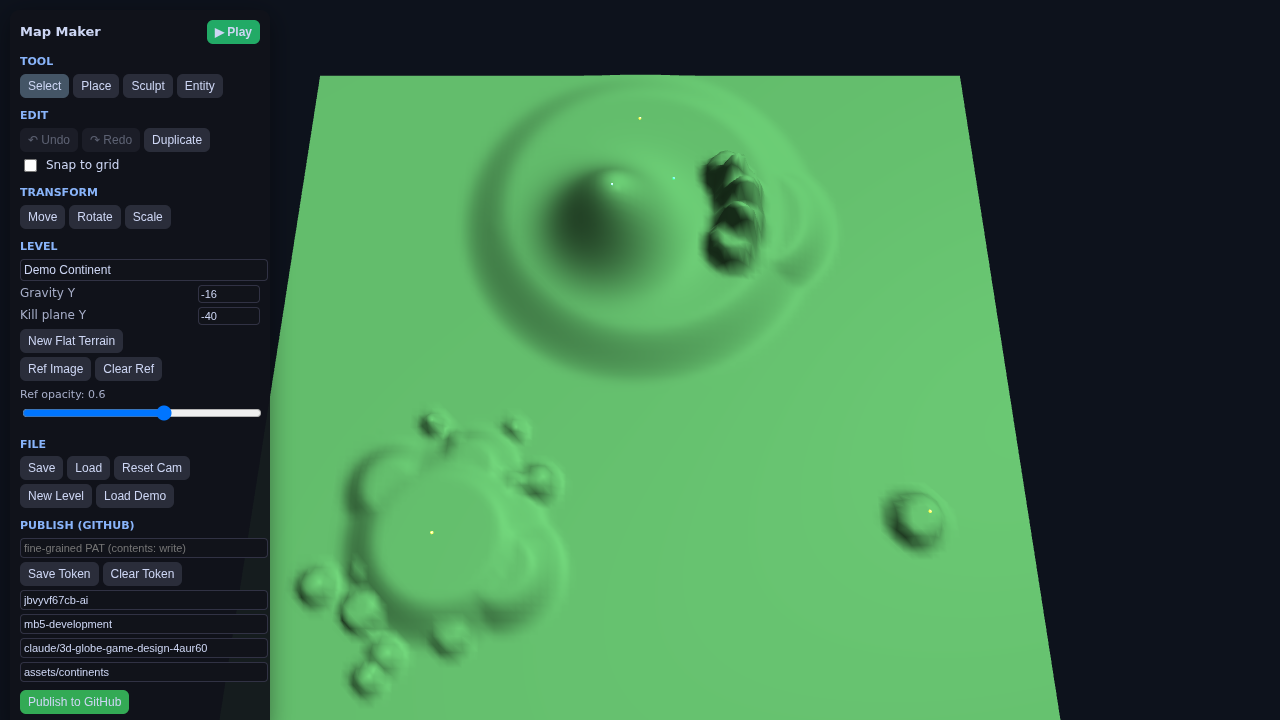
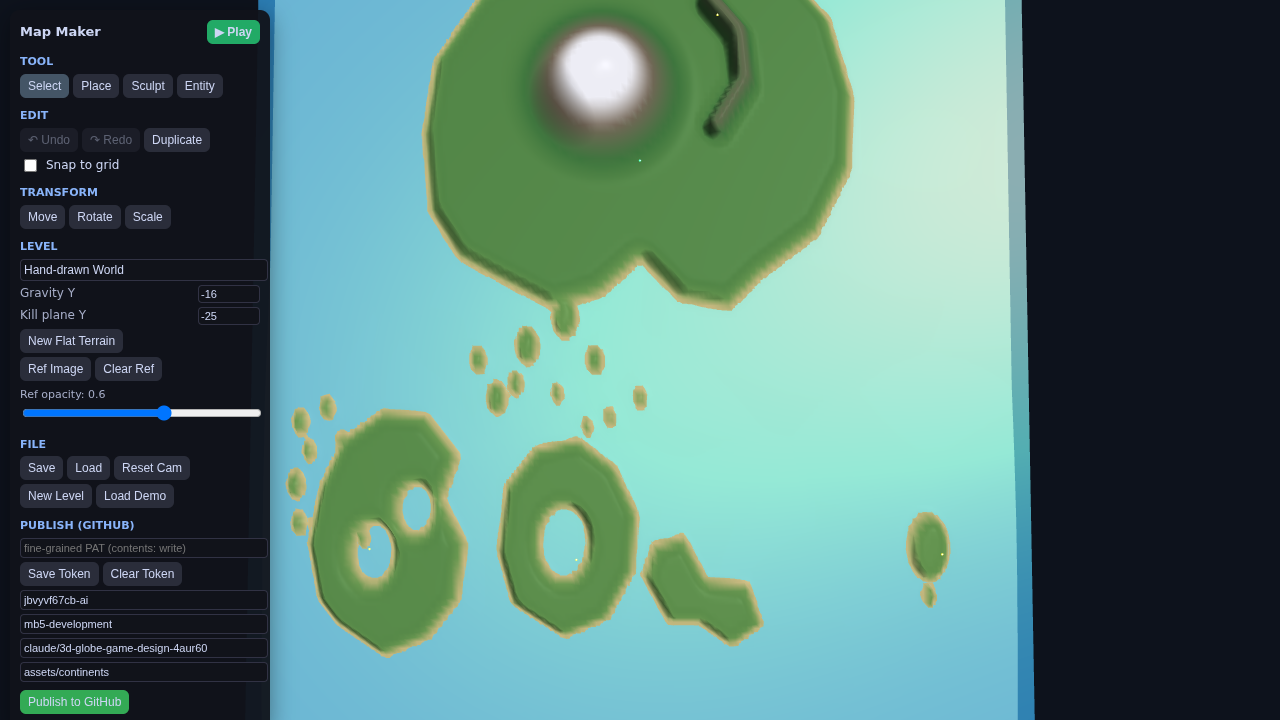
Accurate world: polygon coastlines, water, elevation coloring
- Engine: optional water plane (meta.seaLevel) — translucent ocean across
  bounds; elevation-based terrain vertex colors (sand→grass→rock→snow), updated
  live during sculpt.
- normalize: preserve meta.seaLevel on load (was dropped, so water never showed).
- tools/gen-map.mjs rewritten polygon/coastline-based: traced landmasses with
  internal lakes (holes), signed-distance beaches up to plateaus, the central
  mountain as a snow peak, the crescent ridge, archipelago islands, lone island.
  Regenerated assets/continents/world.json (150x150).
- Docs: seaLevel + elevation coloring.

Verified headless: loads as 'world', water + colored terrain render, zero
console errors.

https://claude.ai/code/session_011Si3GXqCBK1Ga8te8pX1vk

diff --git a/src/world/world.ts b/src/world/world.ts
@@ -63,6 +63,7 @@ export class World implements ContinentResult {
   private aggregates = new Map<string, PhysicsAggregate>();
   private matCache = new Map<string, StandardMaterial>();
   private terrainMat?: StandardMaterial;
+  private waterMat?: StandardMaterial;
 
   constructor(
     readonly scene: Scene,
@@ -74,8 +75,27 @@ export class World implements ContinentResult {
     scene.getPhysicsEngine()?.setGravity(new Vector3(g[0], g[1], g[2]));
 
     if (data.terrain) this.buildTerrainMesh();
+    if (data.meta.seaLevel !== undefined) this.buildWater(data.meta.seaLevel);
     for (const inst of data.prefabs) this.realizePrefab(inst);
     for (const ent of data.entities) this.realizeEntity(ent);
+  }
+
+  private buildWater(level: number) {
+    const b = this.data.meta.bounds;
+    const w = Math.max(2, b.max[0] - b.min[0]);
+    const d = Math.max(2, b.max[2] - b.min[2]);
+    const mesh = MeshBuilder.CreateGround("water", { width: w, height: d }, this.scene);
+    mesh.parent = this.root;
+    mesh.position.set((b.min[0] + b.max[0]) / 2, level, (b.min[2] + b.max[2]) / 2);
+    mesh.isPickable = false;
+    const mat = new StandardMaterial("mat:water", this.scene);
+    mat.diffuseColor = new Color3(0.1, 0.32, 0.55);
+    mat.specularColor = new Color3(0.4, 0.5, 0.6);
+    mat.emissiveColor = new Color3(0.04, 0.12, 0.2);
+    mat.alpha = 0.66;
+    mat.backFaceCulling = false;
+    mesh.material = mat;
+    this.waterMat = mat;
   }
 
   // --- materials ---
@@ -100,8 +120,8 @@ export class World implements ContinentResult {
     this.terrain.mesh.parent = this.root;
     if (!this.terrainMat) {
       this.terrainMat = new StandardMaterial("mat:terrain", this.scene);
-      this.terrainMat.diffuseColor = new Color3(0.22, 0.42, 0.24);
-      this.terrainMat.specularColor = new Color3(0.02, 0.03, 0.02);
+      this.terrainMat.diffuseColor = new Color3(1, 1, 1); // elevation vertex colors carry the look
+      this.terrainMat.specularColor = new Color3(0.03, 0.03, 0.03);
       this.terrainMat.backFaceCulling = false;
     }
     this.terrain.mesh.material = this.terrainMat;
@@ -129,6 +149,7 @@ export class World implements ContinentResult {
     const g = terrainGeometry(this.data.terrain);
     this.terrain.mesh.updateVerticesData(VertexBuffer.PositionKind, g.positions);
     this.terrain.mesh.updateVerticesData(VertexBuffer.NormalKind, g.normals);
+    this.terrain.mesh.updateVerticesData(VertexBuffer.ColorKind, g.colors);
   }
 
   /** Replace (or remove) the terrain entirely. */
@@ -354,6 +375,7 @@ export class World implements ContinentResult {
     this.root.dispose();
     this.matCache.forEach((m) => m.dispose());
     this.terrainMat?.dispose();
+    this.waterMat?.dispose();
   }
 }
 

diff --git a/src/world/terrain.ts b/src/world/terrain.ts
@@ -34,6 +34,28 @@ export interface TerrainGeometry {
   indices: number[];
   normals: number[];
   uvs: number[];
+  colors: number[];
+}
+
+/** Elevation → RGB ramp: sand → grass → rock → snow (smoothly blended). */
+export function elevationColor(h: number): [number, number, number] {
+  const stops: Array<[number, [number, number, number]]> = [
+    [0.4, [0.78, 0.72, 0.5]], // sand
+    [3, [0.42, 0.6, 0.32]], // coastal grass
+    [12, [0.24, 0.46, 0.24]], // green
+    [22, [0.45, 0.4, 0.34]], // rock
+    [30, [0.93, 0.93, 0.96]], // snow
+  ];
+  if (h <= stops[0][0]) return stops[0][1];
+  for (let i = 1; i < stops.length; i++) {
+    if (h <= stops[i][0]) {
+      const [h0, c0] = stops[i - 1];
+      const [h1, c1] = stops[i];
+      const t = (h - h0) / (h1 - h0);
+      return [c0[0] + (c1[0] - c0[0]) * t, c0[1] + (c1[1] - c0[1]) * t, c0[2] + (c1[2] - c0[2]) * t];
+    }
+  }
+  return stops[stops.length - 1][1];
 }
 
 /** Compute terrain vertex data from the height grid (shared by build + sculpt refresh). */
@@ -47,11 +69,15 @@ export function terrainGeometry(data: TerrainData): TerrainGeometry {
   const positions: number[] = [];
   const uvs: number[] = [];
   const indices: number[] = [];
+  const colors: number[] = [];
 
   for (let r = 0; r < rows; r++) {
     for (let c = 0; c < cols; c++) {
-      positions.push(origin[0] + c * cellX, heightAt(data, c, r), origin[1] + r * cellZ);
+      const h = heightAt(data, c, r);
+      positions.push(origin[0] + c * cellX, h, origin[1] + r * cellZ);
       uvs.push(c / Math.max(1, cols - 1), r / Math.max(1, rows - 1));
+      const col = elevationColor(h);
+      colors.push(col[0], col[1], col[2], 1);
     }
   }
   for (let r = 0; r < rows - 1; r++) {
@@ -67,7 +93,7 @@ export function terrainGeometry(data: TerrainData): TerrainGeometry {
 
   const normals: number[] = [];
   VertexData.ComputeNormals(positions, indices, normals);
-  return { positions, indices, normals, uvs };
+  return { positions, indices, normals, uvs, colors };
 }
 
 export function buildTerrain(scene: Scene, data: TerrainData, name = "terrain"): TerrainMesh {
@@ -84,7 +110,9 @@ export function buildTerrain(scene: Scene, data: TerrainData, name = "terrain"):
   vd.indices = g.indices;
   vd.normals = g.normals;
   vd.uvs = g.uvs;
+  vd.colors = g.colors;
   vd.applyToMesh(mesh, true); // updatable: sculpt brushes rewrite positions
+  mesh.useVertexColors = true;
   mesh.receiveShadows = true;
 
   return { mesh, origin, cols, rows, cellX, cellZ };

diff --git a/src/world/schema.ts b/src/world/schema.ts
@@ -30,6 +30,8 @@ export interface ContinentMeta {
   gravity?: Vec3;
   /** Y below which the player is considered to have fallen out of the world. */
   killPlaneY?: number;
+  /** If set, a translucent water plane renders at this Y across the bounds (sea level). */
+  seaLevel?: number;
   /** Kept if any OSM-derived assets are ever used: "Map data © OpenStreetMap contributors". */
   attribution?: string;
 }

diff --git a/src/world/normalize.ts b/src/world/normalize.ts
@@ -142,6 +142,7 @@ export function normalizeContinent(raw: unknown): ContinentData {
       bounds,
       gravity: Array.isArray(metaRaw.gravity) ? vec3(metaRaw.gravity, DEFAULT_GRAVITY) : [...DEFAULT_GRAVITY],
       killPlaneY: num(metaRaw.killPlaneY, -40),
+      ...(typeof metaRaw.seaLevel === "number" ? { seaLevel: metaRaw.seaLevel } : {}),
     },
     prefabs,
     entities,

diff --git a/docs/MAP-FORMAT.md b/docs/MAP-FORMAT.md
@@ -29,7 +29,8 @@ editor. It is intentionally simple and flat so it is easy to generate.
     "version": 1,
     "bounds": { "min": [-65,-25,-65], "max": [65,45,65] }, // encloses everything
     "gravity": [0,-16,0],            // optional, this is the default
-    "killPlaneY": -40                // optional; fall below = respawn
+    "killPlaneY": -40,               // optional; fall below = respawn
+    "seaLevel": 0                    // optional; renders a translucent water plane at this Y
   },
   "terrain": { /* optional heightmap, see below */ },
   "prefabs":  [ /* placed 3D building blocks */ ],
@@ -51,7 +52,11 @@ A row-major grid of height samples over an XZ rectangle.
 ```
 - Height of cell (c, r) is `heights[r*cols + c]` meters.
 - 41×41 over 120 m ≈ a 3 m grid — plenty for gentle terrain; bump resolution for
-  finer hills. Keep it ≤ ~129×129 for now.
+  finer hills.
+- Terrain is auto-colored by elevation (sand → grass → rock → snow). Set
+  `meta.seaLevel` to flood everything below it with a translucent ocean — so a
+  heightmap of raised landmasses over a sea reads as a world map. The Joshua-style
+  offline-bake script for the hand-drawn world is `tools/gen-map.mjs`.
 
 ### prefabs (true-3D building blocks)
 Each entry is one placed instance. Unit prefab meshes are scaled/rotated/moved by
